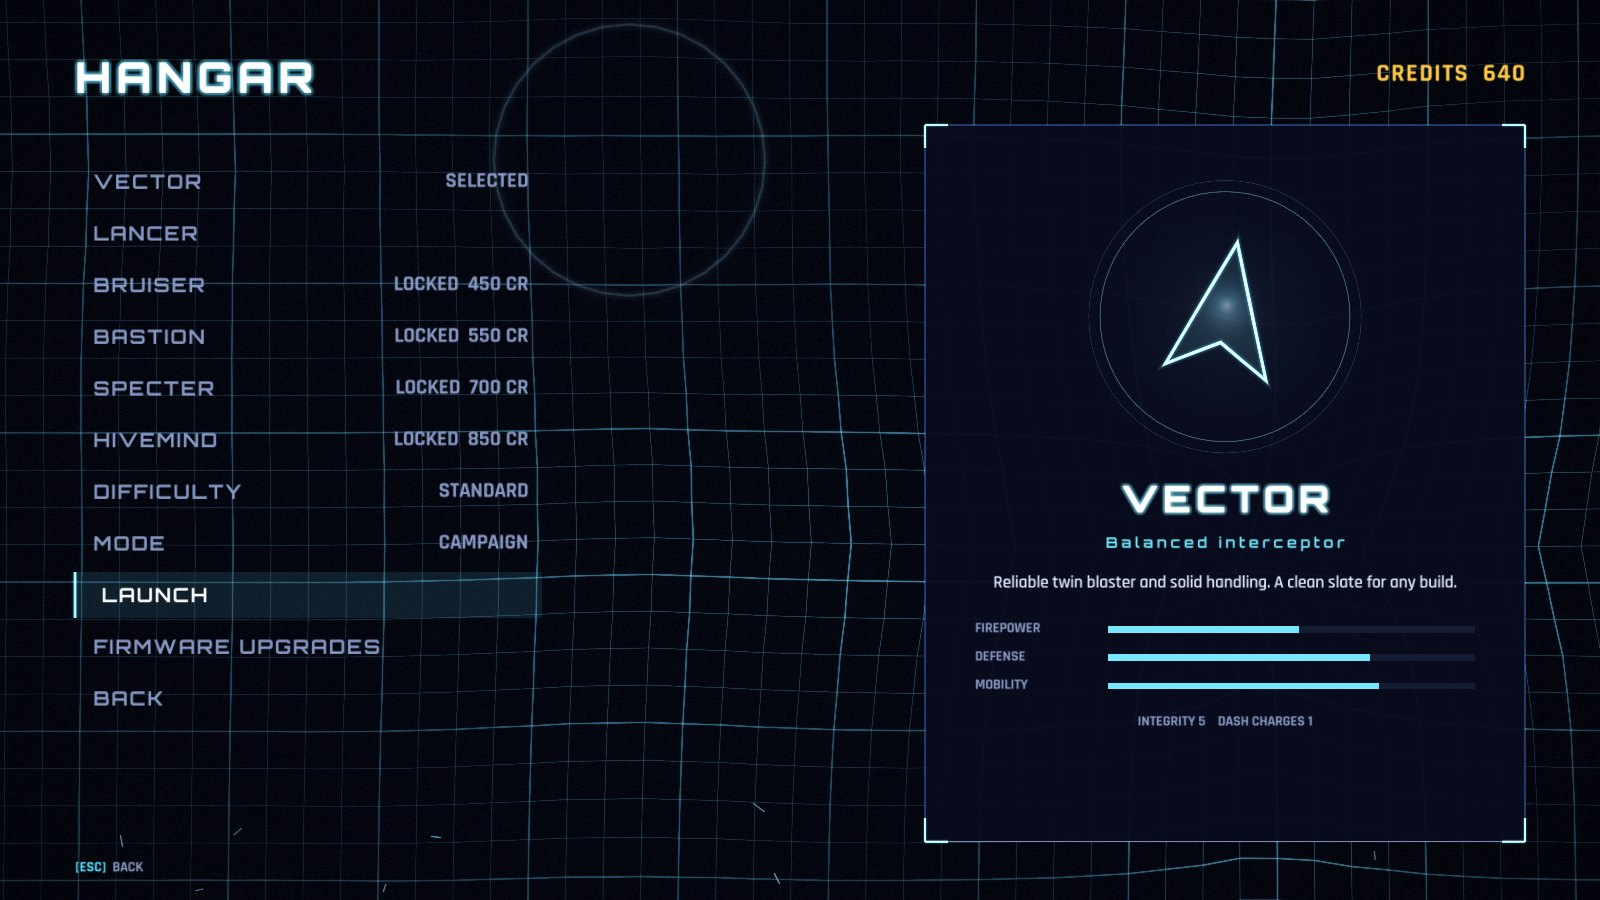
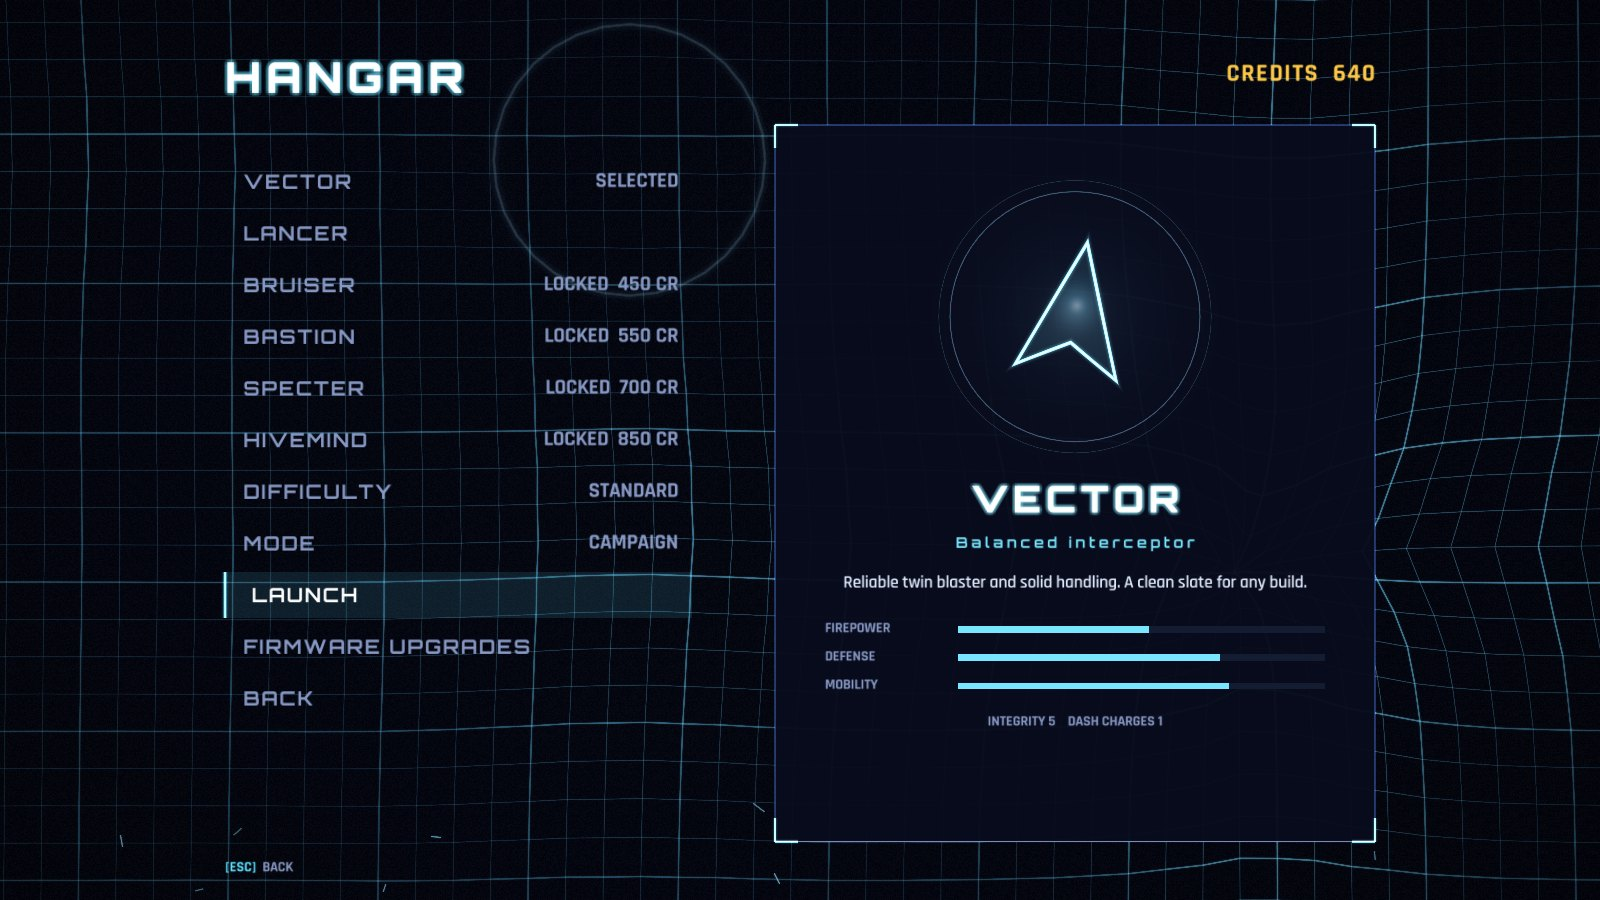
Hangar: centre the menu and ship card as one group
Wide screens left a large hole between the list and the card. Also
describe endless corruption in the mode blurb.

Claude-Session: https://claude.ai/code/session_01Bf7DZDXAq47KxL54ykPCtN

diff --git a/src/scenes/HangarScene.cpp b/src/scenes/HangarScene.cpp
@@ -317,25 +317,33 @@ void HangarScene::DrawFirmware() {
 void HangarScene::DrawUi() {
     const Vector2 ui = app_.Gfx().UiSize();
     TextRenderer& text = app_.Gfx().Text();
-    text.DrawGlow(FontId::Display, "HANGAR", {90.0f, 60.0f}, 64.0f, WHITE, palette::kUiAccent, Align::Left, 0.1f);
-    text.Draw(FontId::BodyBold, TextFormat("CREDITS  %d", app_.Progress().Credits()), {ui.x - 90.0f, 70.0f}, 38.0f,
+    // Menu and ship card are centred as one group so wide screens do not leave
+    // a hole in the middle.
+    constexpr float kMenuWidth = 560.0f;
+    constexpr float kGap = 100.0f;
+    const float detailWidth = std::min(720.0f, ui.x - 820.0f);
+    const float left = std::max(90.0f, (ui.x - (kMenuWidth + kGap + detailWidth)) * 0.5f);
+    const float right = left + kMenuWidth + kGap + detailWidth;
+
+    text.DrawGlow(FontId::Display, "HANGAR", {left, 60.0f}, 64.0f, WHITE, palette::kUiAccent, Align::Left, 0.1f);
+    text.Draw(FontId::BodyBold, TextFormat("CREDITS  %d", app_.Progress().Credits()), {right, 70.0f}, 38.0f,
               LerpColor(palette::kCache, WHITE, purchaseFlash_), Align::Right, 0.05f);
 
-    menu_.Draw(app_, {90.0f, 190.0f}, 560.0f, 62.0f, palette::kUiAccent);
+    menu_.Draw(app_, {left, 190.0f}, kMenuWidth, 62.0f, palette::kUiAccent);
     const int selected = menu_.Selected();
+    const Vector2 blurb{left + 20.0f, 190.0f + 62.0f * 11.0f + 10.0f};
     if (selected == ItemDifficulty) {
-        text.DrawWrapped(FontId::Body, DifficultyBlurb(difficulty_), {110.0f, 190.0f + 62.0f * 11.0f + 10.0f}, 520.0f,
-                         24.0f, palette::kUiDim);
+        text.DrawWrapped(FontId::Body, DifficultyBlurb(difficulty_), blurb, kMenuWidth - 40.0f, 24.0f, palette::kUiDim);
     } else if (selected == ItemMode) {
         text.DrawWrapped(FontId::Body,
-                         mode_ == GameMode::Campaign ? "Clear five sectors and destroy the Core."
-                                                     : "No finish line. Sectors loop with rising threat.",
-                         {110.0f, 190.0f + 62.0f * 11.0f + 10.0f}, 520.0f, 24.0f, palette::kUiDim);
+                         mode_ == GameMode::Campaign
+                             ? "Clear five sectors and destroy the Core."
+                             : "No finish line. Sectors loop forever with compounding threat and corruption.",
+                         blurb, kMenuWidth - 40.0f, 24.0f, palette::kUiDim);
     }
 
-    const float detailWidth = std::min(720.0f, ui.x - 820.0f);
-    DrawShipDetails({ui.x - detailWidth - 90.0f, 150.0f, detailWidth, 860.0f});
-    ui::Prompt(app_, {90.0f, ui.y - 50.0f}, "ESC", "B", "BACK", Align::Left, 22.0f);
+    DrawShipDetails({right - detailWidth, 150.0f, detailWidth, 860.0f});
+    ui::Prompt(app_, {left, ui.y - 50.0f}, "ESC", "B", "BACK", Align::Left, 22.0f);
 
     if (firmwareOpen_) {
         DrawFirmware();
